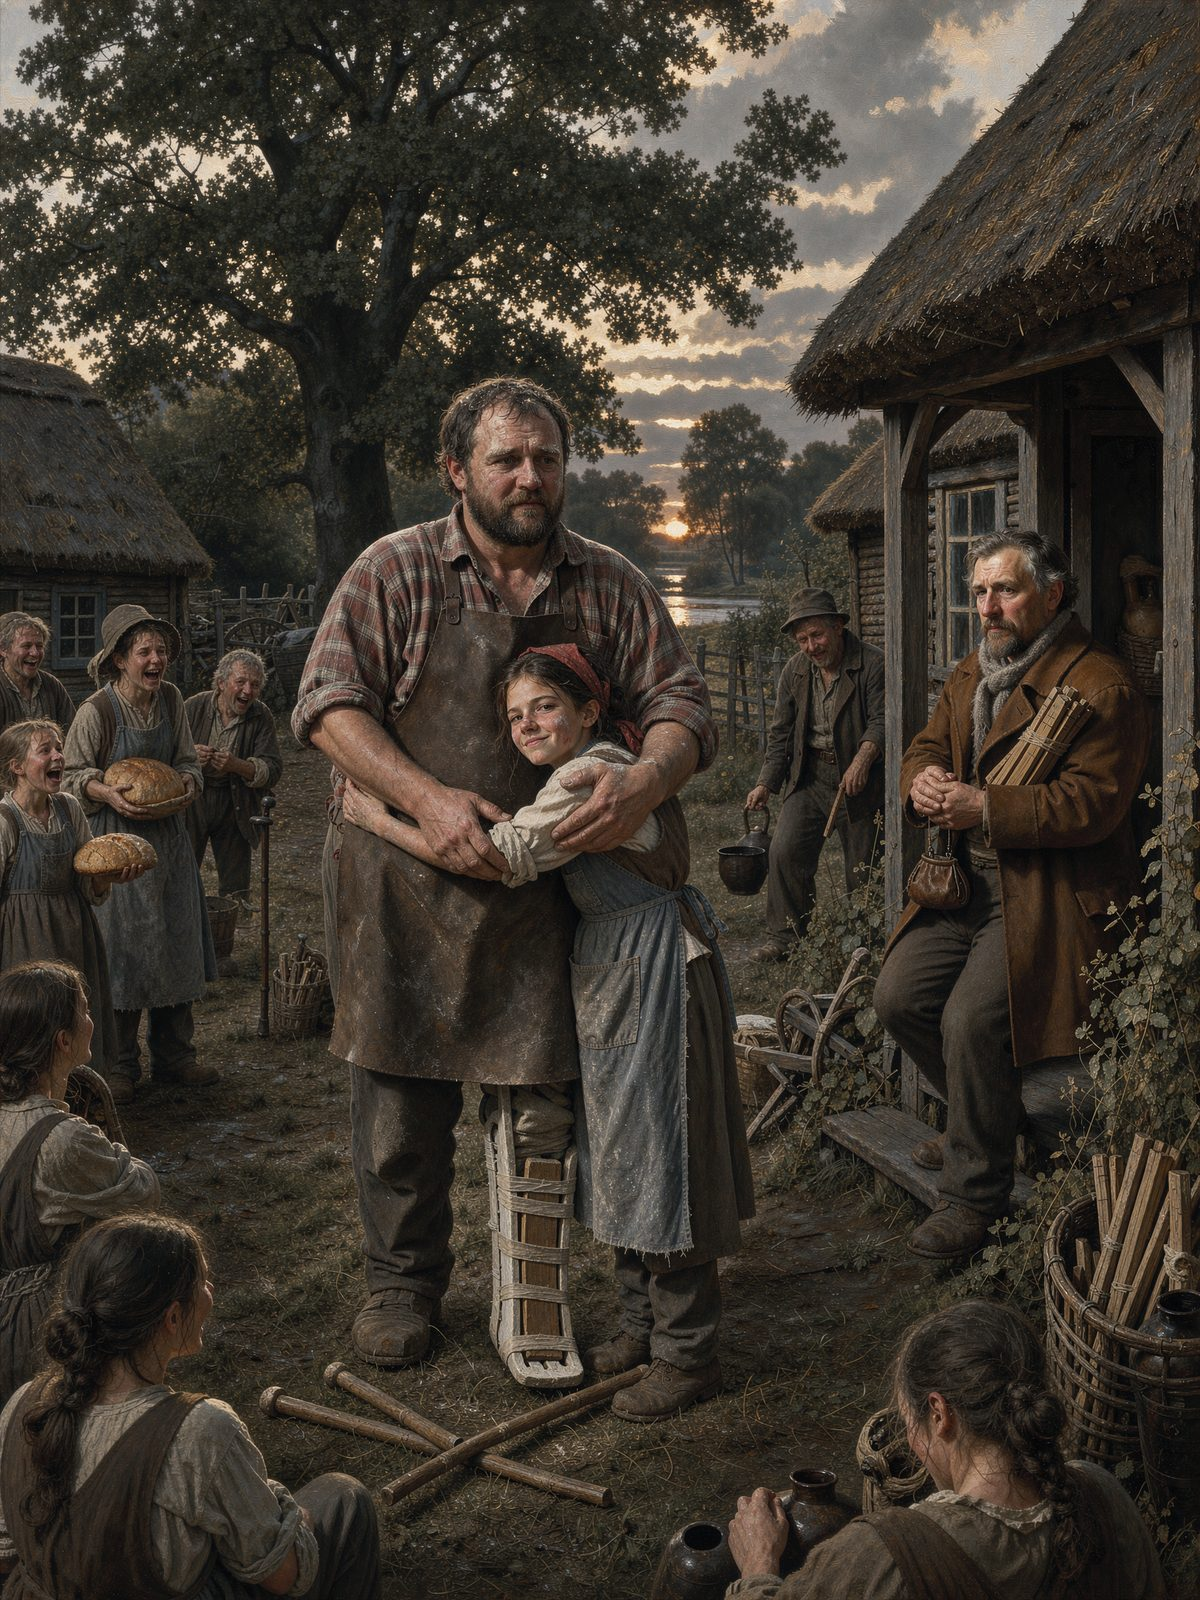
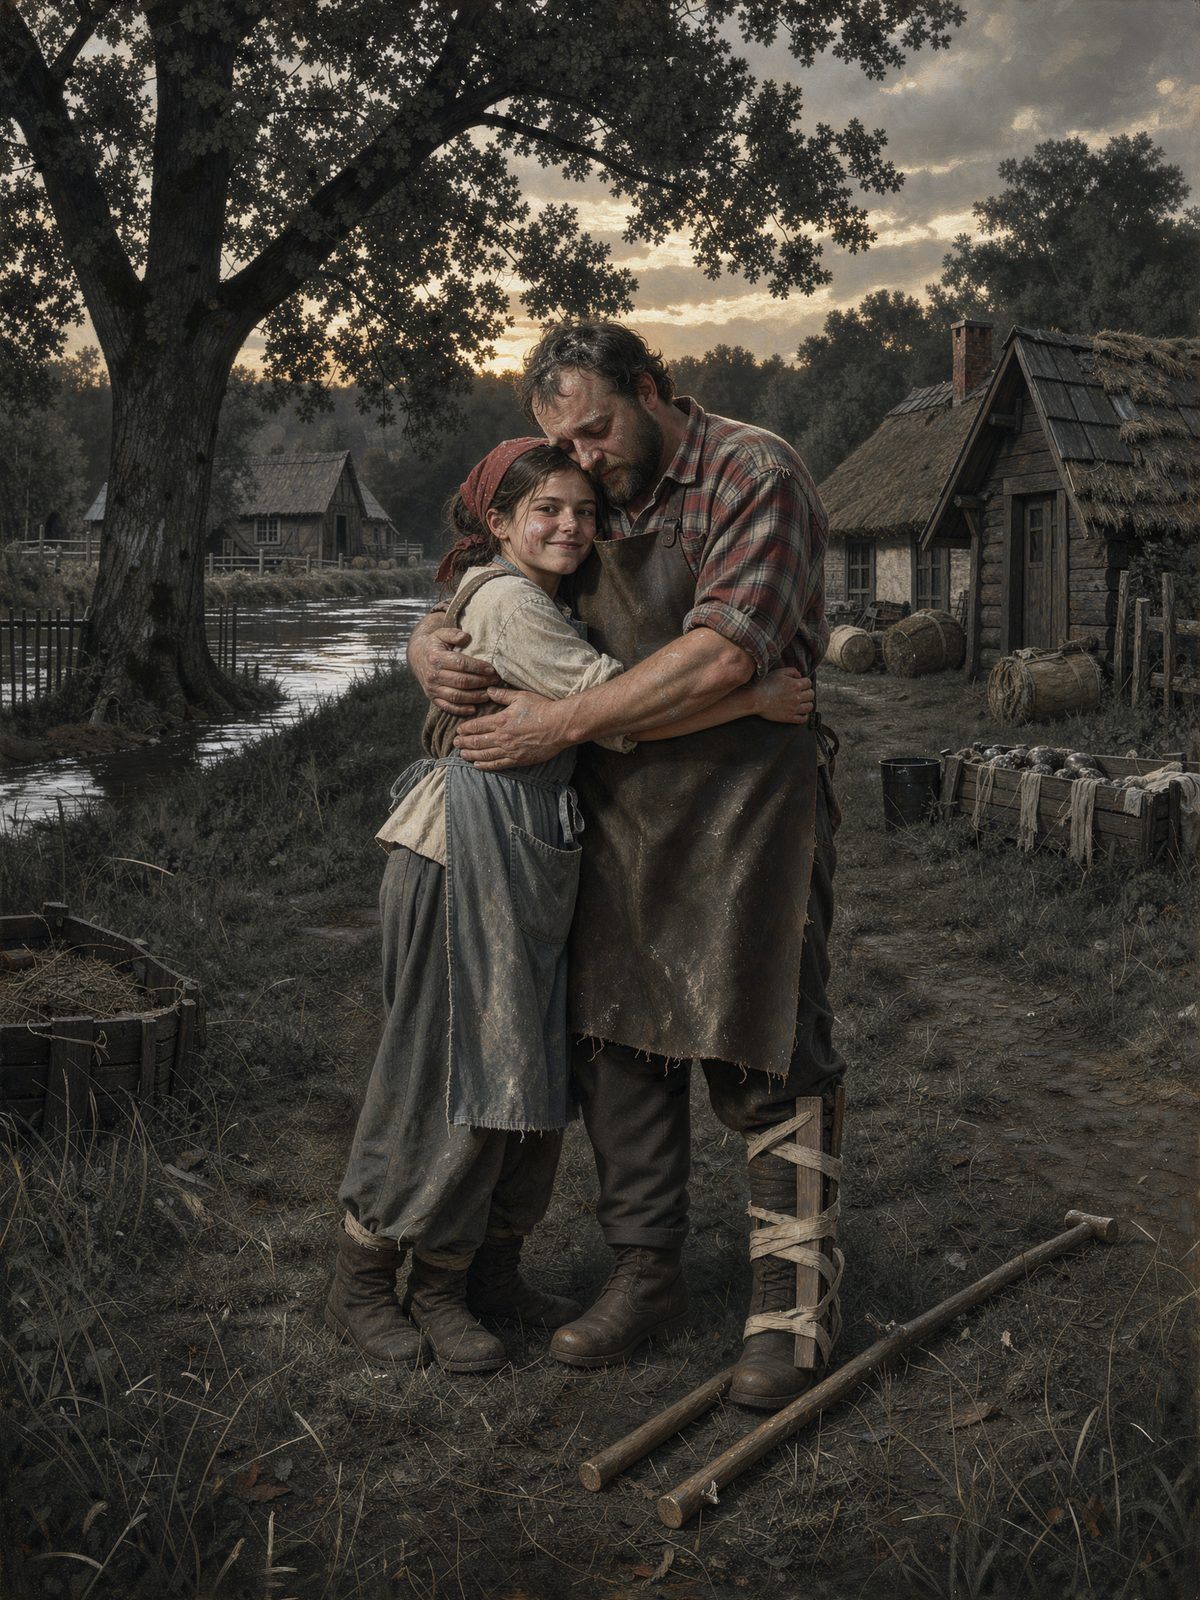
table: The Mill's plates are Stas's final picks
He picked all four after the plates were cut (2026-11-25 21:28Z): another
green, the empty storeroom with its hatch open, the cellar with Gritch and
Wenna only, and Bertil and Wenna on the green. Cut again from the picks.
The second storeroom, with the goblin who yielded, is picked and not shown:
no window is told what happened in the yard.

Claude-Session: https://claude.ai/code/session_015FMpcjVeZBUC9GVHMo3gH2

diff --git a/tasks/glass-table/CON-26.md b/tasks/glass-table/CON-26.md
@@ -24,7 +24,7 @@ Check: the places file and its mistakes, and that nothing told of a place names 
 
 ## Status
 
-partial (table #499's stack). Built: all of the above. The Mill names six places; four have pictures (`green.jpg`, `storeroom.jpg`, `cellar.jpg`, `green-after.jpg`; the storeroom's and the second green's are not Stas's final picks) and two do not (`mill-road.jpg`, `mill-yard.jpg`), which `npm run pack:check` lists as warnings. Gritch has a portrait and no face on the page: his creature's handle is `boss`, which names no one, so the page would give that face to any pack's boss; Snitt is no creature of the pack and has no token.
+partial (table #499's stack). Built: all of the above. The Mill names six places; four have pictures (`green.jpg`, `storeroom.jpg`, `cellar.jpg`, `green-after.jpg`, all Stas's picks of 2026-11-25; a second storeroom with the goblin who yielded is picked and not shown, since no window is told what happened in the yard) and two do not (`mill-road.jpg`, `mill-yard.jpg`), which `npm run pack:check` lists as warnings. Gritch has a portrait and no face on the page: his creature's handle is `boss`, which names no one, so the page would give that face to any pack's boss; Snitt is no creature of the pack and has no token.
 
 Open: the pictures of the road and the yard; the wolf's portrait; a face for Gritch (a handle or a kind that names him); the corner line behind a switch before Friends and Family.
 

diff --git a/scenarios/the_silent_mill/plates/README.md b/scenarios/the_silent_mill/plates/README.md
@@ -4,6 +4,11 @@ The pictures of the places a window shows beside the story (CON-26), and `index.
 each scene's place and its picture. 1200 by 1600 px, 3:4, the shape of the open book's right page.
 
 Our own generations (FLUX 3 on fal, 2026-11-25, drawn from our NPC portraits; no WotC material),
-CC-BY-4.0 with the pack. Stas picked `green.jpg` and `cellar.jpg`; `storeroom.jpg` and
-`green-after.jpg` are provisional, and `green-after.jpg` has known flaws (two crutches on the grass,
-a modern-looking splint). The mill road and the mill yard have no picture yet.
+CC-BY-4.0 with the pack. All four are Stas's picks of 2026-11-25: `green.jpg` (the elder and the
+miller under the oak), `storeroom.jpg` (the empty storeroom, its hatch open), `cellar.jpg` (Gritch
+and Wenna by a lantern) and `green-after.jpg` (Bertil and Wenna on the green). The mill road
+and the mill yard have no picture yet.
+
+A second picture of the storeroom, with the goblin who yielded tied by the hearth, is picked and
+not here: which of the two a table shows depends on what happened in the yard, and no window is
+told that yet.
